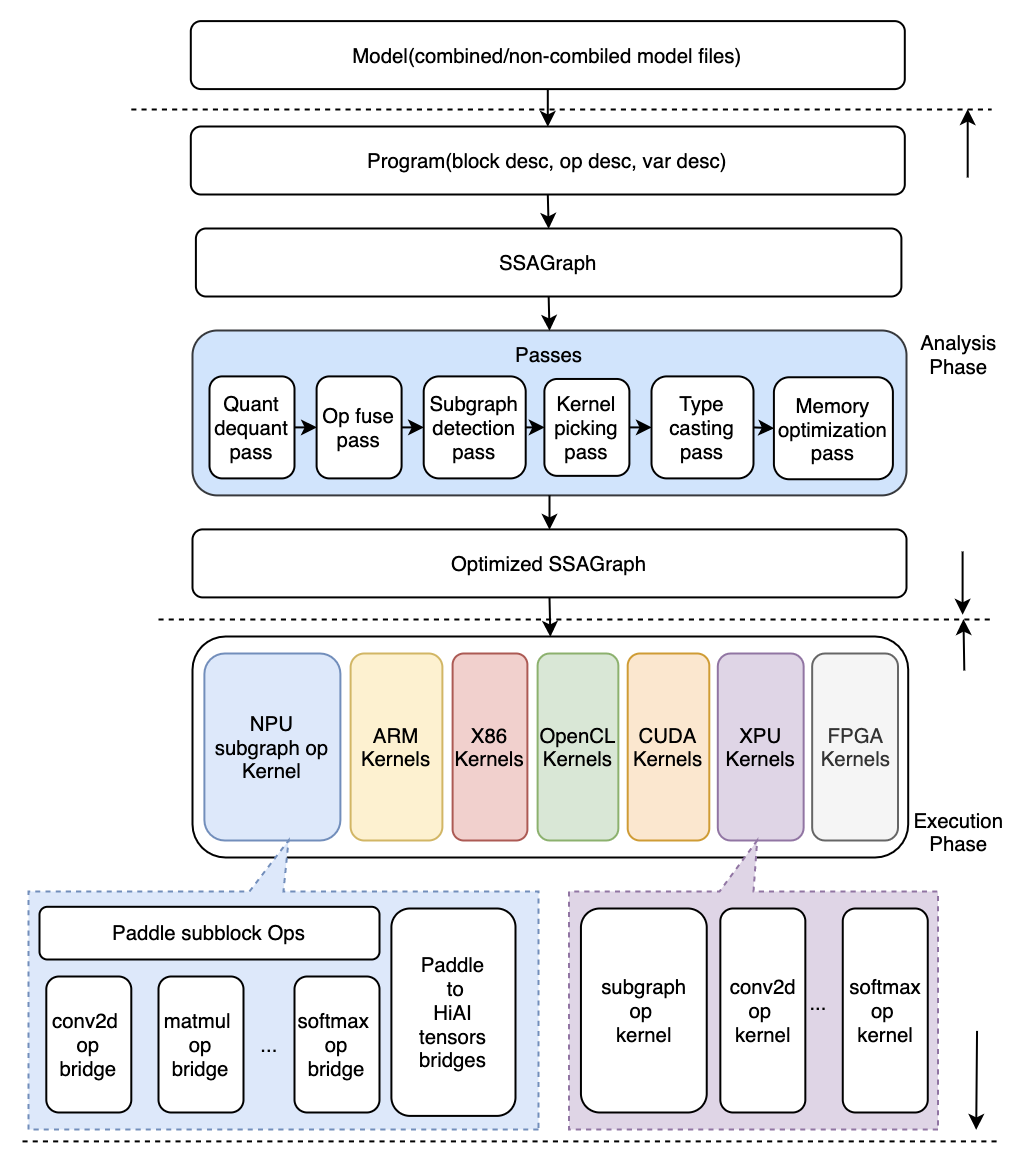
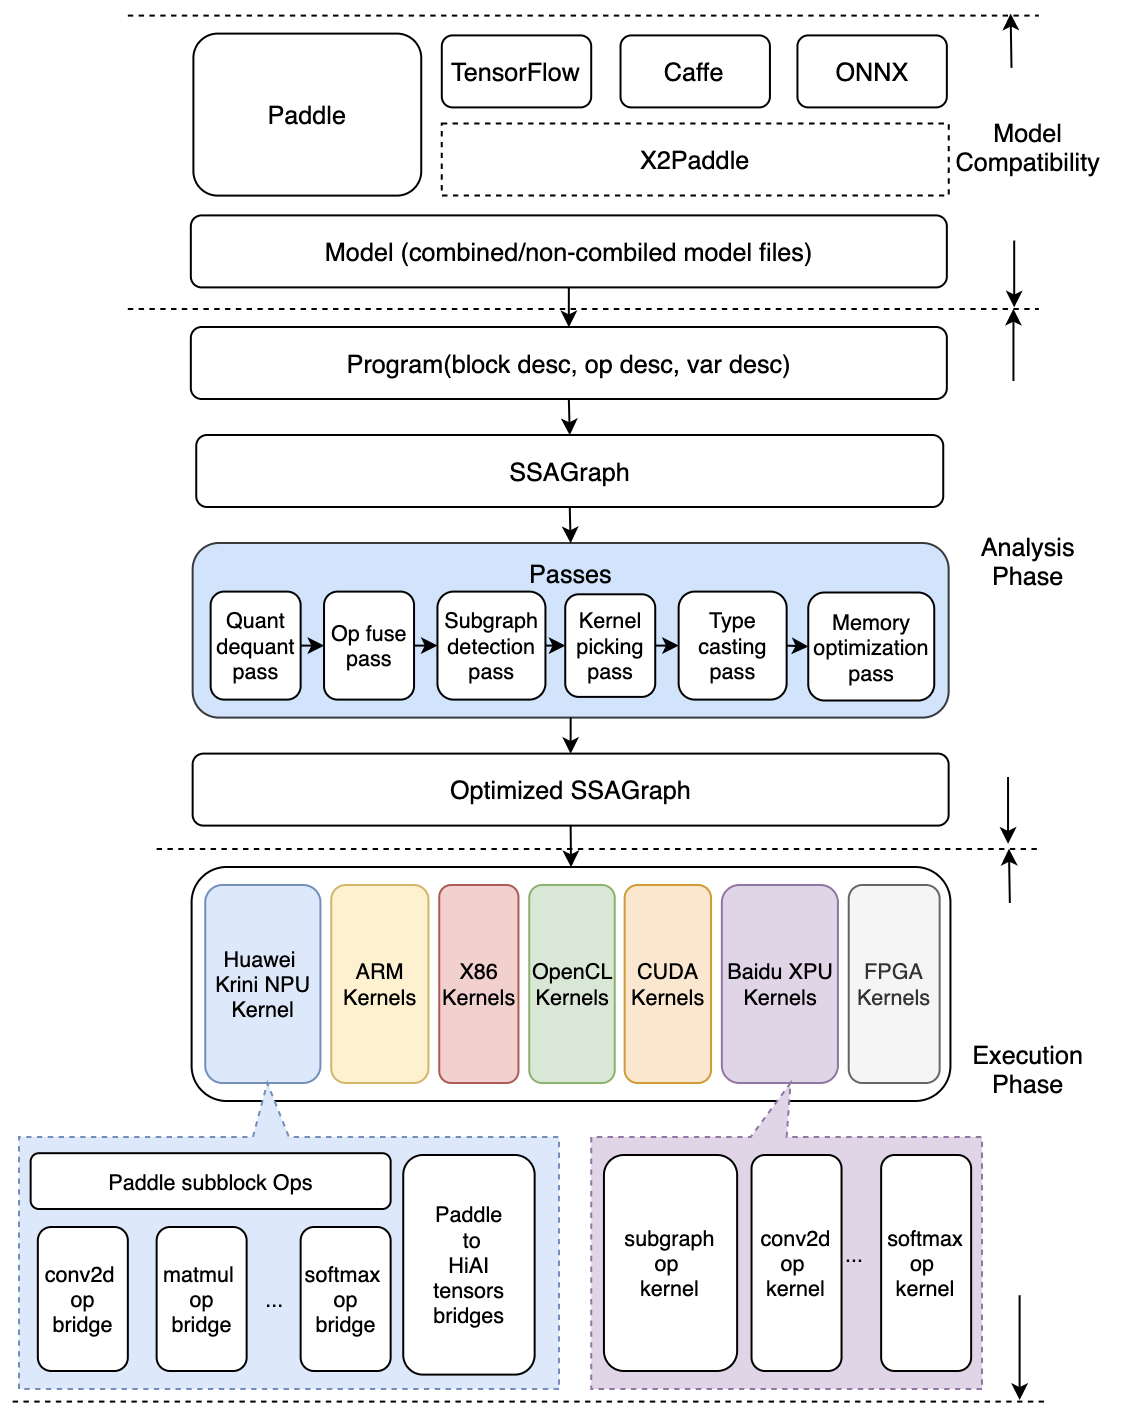
[DOC] update paddle lite docs (#4329)
* [DOC] fix doc of support models tutorials and arch, test=develop, test=document_fix

* [DOC] update architecture, test=develop, test=document_fix

diff --git a/docs/quick_start/tutorial.md b/docs/quick_start/tutorial.md
@@ -2,51 +2,64 @@
 
 Lite是一种轻量级、灵活性强、易于扩展的高性能的深度学习预测框架，它可以支持诸如ARM、OpenCL、NPU等等多种终端，同时拥有强大的图优化及预测加速能力。如果您希望将Lite框架集成到自己的项目中，那么只需要如下几步简单操作即可。
 
-## 一. 准备模型
 
-Lite框架目前支持的模型结构为[PaddlePaddle](https://github.com/PaddlePaddle/Paddle)深度学习框架产出的模型格式。因此，在您开始使用 Lite 框架前您需要准备一个由PaddlePaddle框架保存的模型。
-如果您手中的模型是由诸如Caffe2、Tensorflow等框架产出的，那么我们推荐您使用 [X2Paddle](https://github.com/PaddlePaddle/X2Paddle) 工具进行模型格式转换。
+![workflow](https://raw.githubusercontent.com/PaddlePaddle/Paddle-Lite/develop/docs/images/workflow.png)
 
-## 二. 模型优化
+**一. 准备模型**
 
-Lite框架拥有强大的加速、优化策略及实现，其中包含诸如量化、子图融合、Kernel优选等等优化手段，为了方便您使用这些优化策略，我们提供了[opt](../user_guides/model_optimize_tool)帮助您轻松进行模型优化。优化后的模型更轻量级，耗费资源更少，并且执行速度也更快。
+Paddle Lite框架直接支持模型结构为[PaddlePaddle](https://github.com/PaddlePaddle/Paddle)深度学习框架产出的模型格式。目前PaddlePaddle用于推理的模型是通过[save_inference_model](https://www.paddlepaddle.org.cn/documentation/docs/zh/api_cn/io_cn/save_inference_model_cn.html#save-inference-model)这个API保存下来的。
+如果您手中的模型是由诸如Caffe、Tensorflow、PyTorch等框架产出的，那么您可以使用 [X2Paddle](https://github.com/PaddlePaddle/X2Paddle) 工具将模型转换为PadddlePaddle格式。
 
-opt的详细介绍，请您参考 [模型优化方法](../user_guides/model_optimize_tool)。
+**二. 模型优化**
 
-下载opt工具后执行以下代码：
+Paddle Lite框架拥有优秀的加速、优化策略及实现，包含量化、子图融合、Kernel优选等优化手段。优化后的模型更轻量级，耗费资源更少，并且执行速度也更快。
+这些优化通过Paddle Lite提供的opt工具实现。opt工具还可以统计并打印出模型中的算子信息，并判断不同硬件平台下Paddle Lite的支持情况。您获取PaddlePaddle格式的模型之后，一般需要通该opt工具做模型优化。opt工具的下载和使用，请参考 [模型优化方法](https://paddle-lite.readthedocs.io/zh/latest/user_guides/model_optimize_tool.html)。
 
-``` shell
-$ ./opt \
-    --model_dir=<model_param_dir> \
-    --model_file=<model_path> \
-    --param_file=<param_path> \
-    --optimize_out_type=(protobuf|naive_buffer) \
-    --optimize_out=<output_optimize_model_dir> \
-    --valid_targets=(arm|opencl|x86)
-```
+**注意**: 为了减少第三方库的依赖、提高Lite预测框架的通用性，在移动端使用Lite API您需要准备Naive Buffer存储格式的模型。
 
-其中，optimize_out为您希望的优化模型的输出路径。optimize_out_type则可以指定输出模型的序列化方式，其目前支持Protobuf与Naive Buffer两种方式，其中Naive Buffer是一种更轻量级的序列化/反序列化实现。如果你需要使用Lite在mobile端进行预测，那么您需要设置optimize_out_type=naive_buffer。
+**三. 下载或编译**
 
-## 三. 使用Lite框架执行预测
+Paddle Lite提供了Android/iOS/X86平台的官方Release预测库下载，我们优先推荐您直接下载 [Paddle Lite预编译库](https://paddle-lite.readthedocs.io/zh/latest/quick_start/release_lib.html)。
+您也可以根据目标平台选择对应的[源码编译方法](https://paddle-lite.readthedocs.io/zh/latest/quick_start/release_lib.html#id2)。Paddle Lite 提供了源码编译脚本，位于 `lite/tools/`文件夹下，只需要 [准备环境](https://paddle-lite.readthedocs.io/zh/latest/source_compile/compile_env.html) 和 [调用编译脚本](https://paddle-lite.readthedocs.io/zh/latest/quick_start/release_lib.html#id2) 两个步骤即可一键编译得到目标平台的Paddle Lite预测库。
 
-在上一节中，我们已经通过`opt`获取到了优化后的模型，使用优化模型进行预测也十分的简单。为了方便您的使用，Lite进行了良好的API设计，隐藏了大量您不需要投入时间研究的细节。您只需要简单的五步即可使用Lite在移动端完成预测（以C++ API进行说明）：
+**四. 开发应用程序**
 
+Paddle Lite提供了C++、Java、Python三种API，只需简单五步即可完成预测（以C++ API为例）：
 
-1. 声明MobileConfig。在config中可以设置**从文件加载模型**也可以设置**从memory加载模型**。从文件加载模型需要声明模型文件路径，如 `config.set_model_from_file(FLAGS_model_file)` ；从memory加载模型方法现只支持加载优化后模型的naive buffer，实现方法为：
-`void set_model_from_buffer(model_buffer) `
+1. 声明`MobileConfig`，设置第二步优化后的模型文件路径，或选择从内存中加载模型
+2. 创建`Predictor`，调用`CreatePaddlePredictor`接口，一行代码即可完成引擎初始化
+3. 准备输入，通过`predictor->GetInput(i)`获取输入变量，并为其指定输入大小和输入值
+4. 执行预测，只需要运行`predictor->Run()`一行代码，即可使用Lite框架完成预测执行
+5. 获得输出，使用`predictor->GetOutput(i)`获取输出变量，并通过`data<T>`取得输出值
 
-2. 创建Predictor。Predictor即为Lite框架的预测引擎，为了方便您的使用我们提供了 `CreatePaddlePredictor` 接口，你只需要简单的执行一行代码即可完成预测引擎的初始化，`std::shared_ptr<PaddlePredictor> predictor = CreatePaddlePredictor(config)` 。
-3. 准备输入。执行predictor->GetInput(0)您将会获得输入的第0个field，同样的，如果您的模型有多个输入，那您可以执行 `predictor->GetInput(i)` 来获取相应的输入变量。得到输入变量后您可以使用Resize方法指定其具体大小，并填入输入值。
-4. 执行预测。您只需要执行 `predictor->Run()` 即可使用Lite框架完成预测。
-5. 获取输出。与输入类似，您可以使用 `predictor->GetOutput(i)` 来获得输出的第i个变量。您可以通过其shape()方法获取输出变量的维度，通过 `data<T>()` 模板方法获取其输出值。
+Paddle Lite提供了C++、Java、Python三种API的完整使用示例和开发说明文档，您可以参考示例中的说明快速了解使用方法，并集成到您自己的项目中去。
 
+- [C++完整示例](cpp_demo.html)
+- [Java完整示例](java_demo.html)
+- [Python完整示例](python_demo.html)
 
+针对不同的硬件平台，Paddle Lite提供了各个平台的完整示例：
 
+- [Android示例](https://paddle-lite.readthedocs.io/zh/latest/demo_guides/android_app_demo.html)
+- [iOS示例](https://paddle-lite.readthedocs.io/zh/latest/demo_guides/ios_app_demo.html)
+- [ARMLinux示例](https://paddle-lite.readthedocs.io/zh/latest/demo_guides/linux_arm_demo.html)
+- [X86示例](https://paddle-lite.readthedocs.io/zh/latest/demo_guides/x86.html)
+- [CUDA示例](https://paddle-lite.readthedocs.io/zh/latest/demo_guides/cuda.html)
+- [OpenCL示例](https://paddle-lite.readthedocs.io/zh/latest/demo_guides/opencl.html)
+- [FPGA示例](https://paddle-lite.readthedocs.io/zh/latest/demo_guides/fpga.html)
+- [华为NPU示例](https://paddle-lite.readthedocs.io/zh/latest/demo_guides/huawei_kirin_npu.html)
+- [百度XPU示例](https://paddle-lite.readthedocs.io/zh/latest/demo_guides/baidu_xpu.html)
+- [瑞芯微NPU示例](https://paddle-lite.readthedocs.io/zh/latest/demo_guides/rockchip_npu.html)
+- [联发科APU示例](https://paddle-lite.readthedocs.io/zh/latest/demo_guides/mediatek_apu.html)
 
-## 四. Lite API
+您也可以下载以下基于Paddle-Lite开发的预测APK程序，安装到Andriod平台上，先睹为快：
 
-为了方便您的使用，我们提供了C++、Java、Python三种API，并且提供了相应的api的完整使用示例:[C++完整示例](cpp_demo)、[Java完整示例](java_demo)、[Python完整示例](python_demo)，您可以参考示例中的说明快速了解C++/Java/Python的API使用方法，并集成到您自己的项目中去。需要说明的是，为了减少第三方库的依赖、提高Lite预测框架的通用性，在移动端使用Lite API您需要准备Naive Buffer存储格式的模型，具体方法可参考第2节`模型优化`。
+- [图像分类](https://paddlelite-demo.bj.bcebos.com/apps/android/mobilenet_classification_demo.apk)  
+- [目标检测](https://paddlelite-demo.bj.bcebos.com/apps/android/yolo_detection_demo.apk) 
+- [口罩检测](https://paddlelite-demo.bj.bcebos.com/apps/android/mask_detection_demo.apk)  
+- [人脸关键点](https://paddlelite-demo.bj.bcebos.com/apps/android/face_keypoints_detection_demo.apk) 
+- [人像分割](https://paddlelite-demo.bj.bcebos.com/apps/android/human_segmentation_demo.apk)
 
-## 五. 测试工具
+## 更多测试工具
 
 为了使您更好的了解并使用Lite框架，我们向有进一步使用需求的用户开放了 [Debug工具](../user_guides/debug) 和 [Profile工具](../user_guides/debug)。Lite Model Debug Tool可以用来查找Lite框架与PaddlePaddle框架在执行预测时模型中的对应变量值是否有差异，进一步快速定位问题Op，方便复现与排查问题。Profile Monitor Tool可以帮助您了解每个Op的执行时间消耗，其会自动统计Op执行的次数，最长、最短、平均执行时间等等信息，为性能调优做一个基础参考。您可以通过 [相关专题](../user_guides/debug) 了解更多内容。

diff --git a/docs/introduction/architecture.md b/docs/introduction/architecture.md
@@ -5,23 +5,25 @@ Mobile 在这次升级为 Lite 架构， 侧重多硬件、高性能的支持，
 - 引入 Type system，强化多硬件、量化方法、data layout 的混合调度能力
 - 硬件细节隔离，通过不同编译开关，对支持的任何硬件可以自由插拔
 - 引入 MIR(Machine IR) 的概念，强化带执行环境下的优化支持
-- 优化期和执行期严格隔离，保证预测时轻量和高效率
+- 图优化模块和执行引擎实现了良好的解耦拆分，保证预测执行阶段的轻量和高效率
 
 架构图如下
 
-![Paddle Inference Refactor1.0](https://user-images.githubusercontent.com/52520497/64949619-26e49580-d8ac-11e9-855a-514feb9b75af.png)
+<p align="center"><img width="500" src="https://raw.githubusercontent.com/PaddlePaddle/Paddle-Lite/develop/docs/images/architecture.png"/></p>
 
-## 编译期和执行期严格隔离设计
+## 模型优化阶段和预测执行阶段的隔离设计
 
-- compile time 优化完毕可以将优化信息存储到模型中；execution time 载入并执行
-- 两套 API 及对应的预测lib，满足不同场景
-  - `CxxPredictor` 打包了 `Compile Time` 和 `Execution Time`，可以 runtime 在具体硬件上做分析和优化，得到最优效果
-  - `MobilePredictor` 只打包 `Execution Time`，保持部署和执行的轻量
+- Analysis Phase为模型优化阶段，输入为Paddle的推理模型，通过Lite的模型加速和优化策略对计算图进行相关的优化分析，包含算子融合，计算裁剪，存储优化，量化精度转换、存储优化、Kernel优选等多类图优化手段。优化后的模型更轻量级，在相应的硬件上运行时耗费资源更少，并且执行速度也更快。
+- Execution Phase为预测执行阶段，输入为优化后的Lite模型，仅做模型加载和预测执行两步操作，支持极致的轻量级部署，无任何第三方依赖。
 
-## `Execution Time` 轻量级设计和实现
+Lite设计了两套 API 及对应的预测库，满足不同场景需求：
+  - `CxxPredictor` 同时包含 `Analysis Phase` 和 `Execution Phase`，支持一站式的预测任务，同时支持模型进行分析优化与预测执行任务，适用于对预测库大小不敏感的硬件场景。
+  - `MobilePredictor` 只包含 `Execution Phase`，保持预测部署和执行的轻量级和高性能，支持从内存或者文件中加载优化后的模型，并进行预测执行。
 
-- 每个 batch 实际执行只包含两个步骤执行
-  - `Op.InferShape`
+## Execution Phase轻量级设计和实现
+
+- 在预测执行阶段，每个 batch 实际执行只包含两个步骤执行
+  - `OpLite.InferShape` 基于输入推断得到输出的维度
   - `Kernel.Run`，Kernel 相关参数均使用指针提前确定，后续无查找或传参消耗
   - 设计目标，执行时，只有 kernel 计算本身消耗
 - 轻量级 `Op` 及 `Kernel` 设计，避免框架额外消耗

diff --git a/docs/introduction/support_model_list.md b/docs/introduction/support_model_list.md
@@ -2,31 +2,35 @@
 
 目前已严格验证24个模型的精度和性能，对视觉类模型做到了较为充分的支持，覆盖分类、检测和定位，包含了特色的OCR模型的支持，并在不断丰富中。
 
-| 类别 | 类别细分 | 模型 | 支持Int8 | 支持平台 |
-|-|-|:-:|:-:|-:|
-| CV  | 分类 | mobilenetv1 | Y | ARM，X86，NPU，RKNPU，APU |
-| CV  | 分类 | mobilenetv2 | Y | ARM，X86，NPU |
-| CV  | 分类 | resnet18 | Y | ARM，NPU |
-| CV  | 分类 | resnet50 | Y | ARM，X86，NPU，XPU |
-| CV  | 分类 | mnasnet |  | ARM，NPU |
-| CV  | 分类 | efficientnet |  | ARM |
-| CV  | 分类 | squeezenetv1.1 |  | ARM，NPU |
-| CV  | 分类 | ShufflenetV2 | Y | ARM |
-| CV  | 分类 | shufflenet | Y | ARM |
-| CV  | 分类 | inceptionv4 | Y | ARM，X86，NPU |
-| CV  | 分类 | vgg16 | Y | ARM |
-| CV  | 分类 | googlenet | Y  | ARM，X86 |
-| CV  | 检测 | mobilenet_ssd | Y | ARM，NPU* |
-| CV  | 检测 | mobilenet_yolov3 | Y | ARM，NPU* |
-| CV | 检测 | Faster RCNN |  | ARM |
-| CV | 检测 | Mask RCNN |  | ARM |
-| CV | 分割 | Deeplabv3 | Y | ARM |
-| CV  | 分割 | unet |  | ARM |
-| CV  | 人脸 | facedetection |  | ARM |
-| CV  | 人脸 | facebox |  | ARM |
-| CV  | 人脸 | blazeface | Y | ARM |
-| CV  | 人脸 | mtcnn |  | ARM |
-| CV  | OCR | ocr_attention |  | ARM |
-| NLP  | 机器翻译 | transformer |  | ARM，NPU* |
+| 类别 | 类别细分 | 模型 | 支持平台 |
+|-|-|:-|:-|
+| CV | 分类 | mobilenetv1 | ARM，X86，NPU，RKNPU，APU |
+| CV | 分类 | mobilenetv2 | ARM，X86，NPU |
+| CV | 分类 | resnet18 | ARM，NPU |
+| CV | 分类 | resnet50 | ARM，X86，NPU，XPU |
+| CV | 分类 | mnasnet | ARM，NPU |
+| CV | 分类 | efficientnet | ARM |
+| CV | 分类 | squeezenetv1.1 | ARM，NPU |
+| CV | 分类 | ShufflenetV2 | ARM |
+| CV | 分类 | shufflenet | ARM |
+| CV | 分类 | inceptionv4 | ARM，X86，NPU |
+| CV | 分类 | vgg16 | ARM |
+| CV | 分类 | googlenet | ARM，X86 |
+| CV | 分类 | SENet | XPU |
+| CV | 检测 | mobilenet_ssd | ARM，NPU*，XPU |
+| CV | 检测 | mobilenet_yolov3 | ARM，NPU*，XPU |
+| CV | 检测 | Faster RCNN | ARM，XPU |
+| CV | 检测 | Mask RCNN | ARM，XPU |
+| CV | 分割 | Deeplabv3 | ARM |
+| CV | 分割 | unet | ARM，XPU |
+| CV | 人脸 | facedetection | ARM |
+| CV | 人脸 | facebox | ARM |
+| CV | 人脸 | blazeface | ARM |
+| CV | 人脸 | mtcnn | ARM |
+| CV | OCR | ocr_attention | ARM |
+| CV | GAN | CycleGAN | NPU |
+| NLP | 机器翻译 | transformer | ARM，NPU* |
+| NLP | 机器翻译 | BERT | XPU |
+| NLP | 语义表示 | ERNIE | XPU |
 
-> **注意：** NPU* 代表ARM+NPU异构计算
+**注意：** NPU* 代表ARM+NPU异构计算

diff --git a/docs/demo_guides/cuda.md b/docs/demo_guides/cuda.md
@@ -1,5 +1,7 @@
 # PaddleLite使用CUDA预测部署
 
+**注意**: Lite CUDA仅作为Nvidia GPU加速库，支持模型有限，如有需要请使用[PaddleInference](https://paddle-inference.readthedocs.io/en/latest)。
+
 Lite支持在x86_64，arm64架构上（如：TX2）进行CUDA的编译运行。
 
 ## 编译
